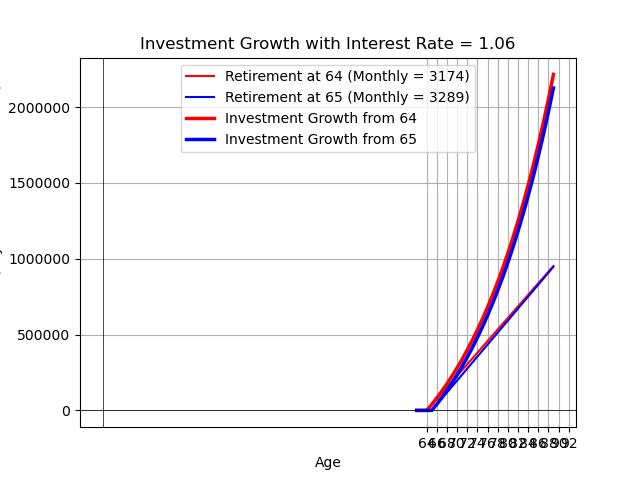
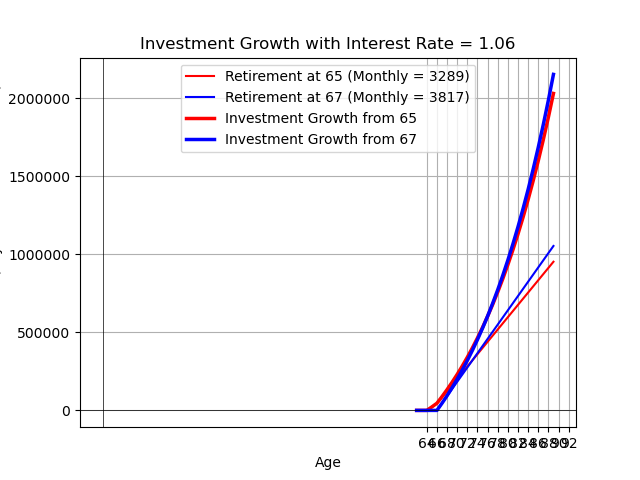
fra full retirement age support

diff --git a/social_security/t1_with_fra.py b/social_security/t1_with_fra.py
@@ -1,0 +1,86 @@
+import numpy as np
+import matplotlib.pyplot as plt
+from matplotlib.ticker import ScalarFormatter
+import mplcursors
+
+death = 90
+start62 = 62
+retirement_age1 = 65
+retirement_age2 = 67
+fra_age = 67
+max_before_fra = 1860
+ss = {64:3174,
+     65:3289, 
+      66:3552, 
+      67:3817, 
+      68:4083, 
+      69:4401, 
+      70:4772}
+interest = 1.04
+agelist = [i for i in range(start62, death)]
+
+# Compute payment timeline and investment growth
+def line(retirement_age, monthly_amount):
+    cum_payment_list = []
+    cum_invest_list = []
+    for age in range(start62, death):
+        # age at year start
+        # cum_payment and investment at year end
+       
+        cum_payment = 0
+        cum_invest = 0
+        if age >= retirement_age:
+            #  go over all early ages add payments and investment
+            for j_age in range(retirement_age, age+1):
+                monthly_amount2 = monthly_amount
+                if j_age < fra_age:
+                    # adjust to before FRA year max benefit
+                    monthly_amount2 = max_before_fra 
+                year_payment = monthly_amount2 * 12
+                n_year_to_grow = age - j_age
+                year_invest=year_payment * (interest ** (n_year_to_grow))
+                cum_payment += year_payment
+                cum_invest += year_invest
+            
+        cum_payment_list.append(cum_payment)
+        cum_invest_list.append(int(cum_invest))
+    
+    return cum_payment_list, cum_invest_list
+
+# Generate payment and investment growth data
+pay1, inv1 = line(retirement_age1, ss[retirement_age1])
+pay2, inv2 = line(retirement_age2, ss[retirement_age2])
+dpay = [p1 - p2 for p1, p2 in zip(pay1, pay2)]
+dinv = [i1 - i2 for i1, i2 in zip(inv1, inv2)]
+# Plotting
+# plt.plot(agelist, pay1, label=f'Retirement at {retirement_age1} (Monthly = {ss[retirement_age1]})', color="red")
+# plt.plot(agelist, pay2, label=f'Retirement at {retirement_age2} (Monthly = {ss[retirement_age2]})', color="blue")
+# plt.plot(agelist, inv1, label=f'Investment Growth from {retirement_age1}', color="red", linewidth=2.5)
+# plt.plot(agelist, inv2, label=f'Investment Growth from {retirement_age2}', color="blue", linewidth=2.5)
+plt.plot(agelist, dpay, label=f'benefit  in Payments for {retirement_age1} vs {retirement_age2}  ', color="black", linewidth=2.5)
+plt.plot(agelist, dinv, label=f'benefit  in Investment for {retirement_age1} vs {retirement_age2} ', color="green", linewidth=2.5)
+
+# Add labels and legend
+plt.xlabel('Age')
+plt.ylabel('Cumulative Value (Payments and Investment)')
+plt.title(f'Investment Growth with Interest Rate = {interest} FRA = {fra_age}')
+plt.legend()
+
+# Show grid and axes formatting
+plt.grid(True)
+plt.gca().set_xticks(np.arange(64, 100, 2)) 
+plt.axhline(0, color='black', linewidth=0.5)
+plt.axvline(0, color='black', linewidth=0.5)
+plt.gca().yaxis.set_major_formatter(ScalarFormatter(useOffset=False))
+plt.gca().yaxis.get_major_formatter().set_scientific(False)
+
+# Use mplcursors to display values without scientific notation
+cursor = mplcursors.cursor(hover=True)
+cursor.connect("add", lambda sel: sel.annotation.set_text(
+    f"Age = {sel.target[0]:.2f}\nCumulative Value = {sel.target[1]:.2f}"
+))
+
+# Save the plot as a file
+plt.savefig(f'social_security/interest_{interest}.png', dpi=100)
+# plt.savefig(f'social_security/interest_{interest}.pdf', dpi=100)
+plt.show()
